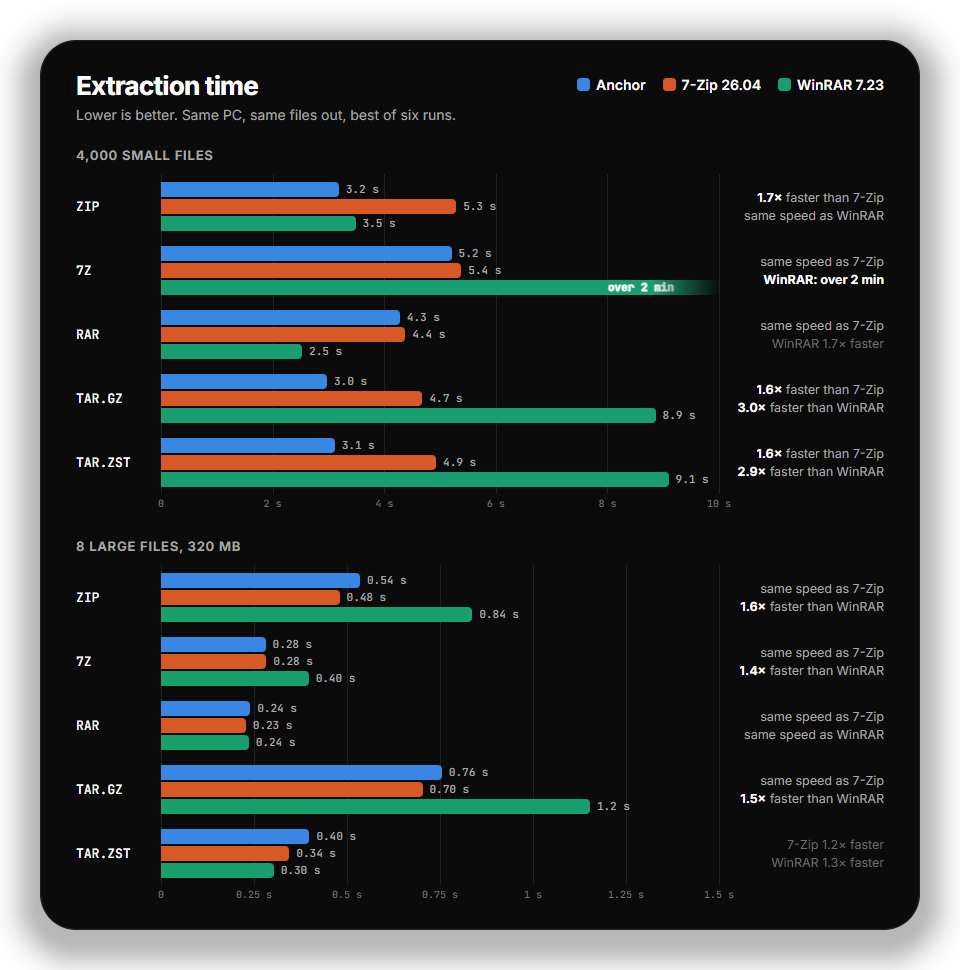
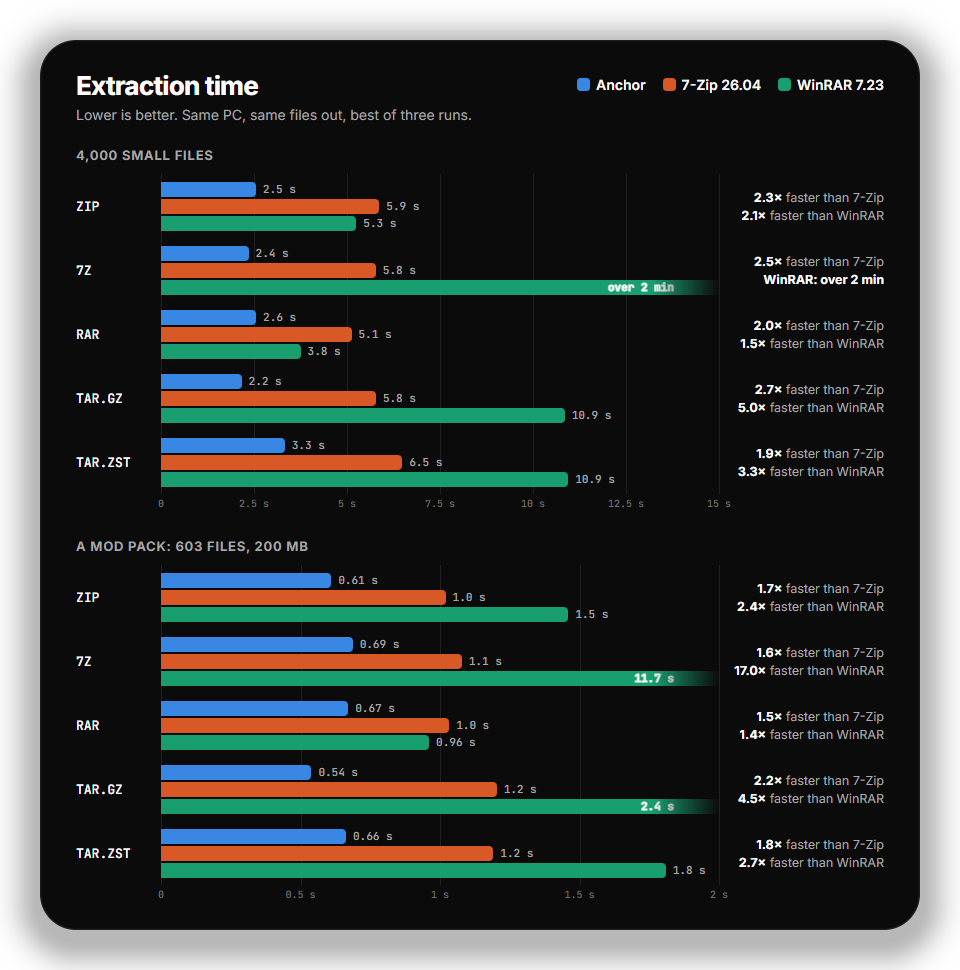
Anchor 0.4.0: fresh benchmark with a mod pack set, open as drive, preview pane and the anchor command

diff --git a/README.md b/README.md
@@ -14,16 +14,16 @@
 
 <picture>
 <source media="(prefers-color-scheme: dark)" srcset="assets/features-dark.png">
-<img src="assets/features-light.png" alt="Open from a link. Repair any ZIP. Size map. Auto compression. Up to 3 times faster. Safe by default." width="100%">
+<img src="assets/features-light.png" alt="Open from a link. Repair any ZIP. Size map. Auto compression. Up to 2.7 times faster. Safe by default." width="100%">
 </picture>
 
 ## Faster than 7-Zip and WinRAR
 
-Anchor extracts on every processor core at once. With many files that makes it up to **1.7× faster than 7-Zip** and up to **3× faster than WinRAR**, and on one 7Z archive WinRAR needed over two minutes where Anchor took five seconds. WinRAR stays quickest on its own RAR format, and with a few large files all three are close.
+Anchor reads the archive as one stream and writes files in parallel. With many files that makes it up to **2.7× faster than 7-Zip** and up to **5× faster than WinRAR**, and on one 7Z archive WinRAR needed over two minutes. With large files every tool waits on decompression, so the gap is small: there Anchor stays within 0.1 s of 7-Zip (the cost of staging files so nothing is left half-written), and WinRAR is quicker on large RAR files.
 
 <picture>
 <source media="(prefers-color-scheme: dark)" srcset="assets/speed-dark.png">
-<img src="assets/speed-light.png" alt="Extraction time for Anchor, 7-Zip 26.04 and WinRAR 7.23. 4,000 small files: ZIP 3.2, 5.3 and 3.5 seconds; 7Z 5.2, 5.4 seconds and over 2 minutes; RAR 4.3, 4.4 and 2.5 seconds; TAR.GZ 3.0, 4.7 and 8.9 seconds; TAR.ZST 3.1, 4.9 and 9.1 seconds. 8 large files: all within a second." width="100%">
+<img src="assets/speed-light.png" alt="Extraction time for Anchor, 7-Zip 26.04 and WinRAR 7.23. 4,000 small files: Anchor 2.2 to 3.3 seconds, 7-Zip 5.1 to 6.5 seconds, WinRAR 3.8 seconds to over 2 minutes. A 200 MB mod pack: Anchor 0.54 to 0.69 seconds, 7-Zip 1.0 to 1.2 seconds, WinRAR 0.96 to 11.7 seconds" width="100%">
 </picture>
 
 <details>
@@ -31,18 +31,28 @@ Anchor extracts on every processor core at once. With many files that makes it u
 
 | Archive | Anchor | 7-Zip 26.04 | WinRAR 7.23 |
 | :-- | --: | --: | --: |
-| 4,000 small files · ZIP | **3.19 s** | 5.29 s | 3.49 s |
-| 4,000 small files · 7Z | **5.21 s** | 5.38 s | over 2 min |
-| 4,000 small files · RAR | 4.28 s | 4.38 s | **2.53 s** |
-| 4,000 small files · TAR.GZ | **2.98 s** | 4.69 s | 8.86 s |
-| 4,000 small files · TAR.ZST | **3.11 s** | 4.93 s | 9.10 s |
-| 8 large files, 320 MB · ZIP | 0.54 s | **0.48 s** | 0.84 s |
-| 8 large files, 320 MB · 7Z | **0.28 s** | **0.28 s** | 0.40 s |
-| 8 large files, 320 MB · RAR | 0.24 s | **0.23 s** | 0.24 s |
-| 8 large files, 320 MB · TAR.GZ | 0.76 s | **0.70 s** | 1.15 s |
-| 8 large files, 320 MB · TAR.ZST | 0.40 s | 0.35 s | **0.30 s** |
+| 4,000 small files · ZIP | **2.55 s** | 5.87 s | 5.25 s |
+| 4,000 small files · 7Z | **2.35 s** | 5.78 s | over 2 min |
+| 4,000 small files · RAR | **2.56 s** | 5.12 s | 3.75 s |
+| 4,000 small files · TAR.GZ | **2.17 s** | 5.78 s | 10.85 s |
+| 4,000 small files · TAR.ZST | **3.33 s** | 6.49 s | 10.95 s |
+| Mod pack: 603 files, 200 MB · ZIP | **0.61 s** | 1.02 s | 1.46 s |
+| Mod pack: 603 files, 200 MB · 7Z | **0.69 s** | 1.08 s | 11.69 s |
+| Mod pack: 603 files, 200 MB · RAR | **0.67 s** | 1.03 s | 0.96 s |
+| Mod pack: 603 files, 200 MB · TAR.GZ | **0.54 s** | 1.20 s | 2.41 s |
+| Mod pack: 603 files, 200 MB · TAR.ZST | **0.66 s** | 1.19 s | 1.81 s |
+| 8 large files, 320 MB · ZIP | **0.33 s** | 0.52 s | 0.88 s |
+| 8 large files, 320 MB · 7Z | 0.40 s | **0.32 s** | 0.83 s |
+| 8 large files, 320 MB · RAR | 0.37 s | 0.28 s | **0.26 s** |
+| 8 large files, 320 MB · TAR.GZ | **0.64 s** | 0.83 s | 1.20 s |
+| 8 large files, 320 MB · TAR.ZST | **0.26 s** | 0.43 s | 0.32 s |
+| 1 large file, 200 MB · ZIP | 0.41 s | **0.35 s** | 0.58 s |
+| 1 large file, 200 MB · 7Z | 0.31 s | **0.24 s** | 0.34 s |
+| 1 large file, 200 MB · RAR | 0.64 s | 0.57 s | **0.33 s** |
+| 1 large file, 200 MB · TAR.GZ | **0.45 s** | 0.55 s | 0.76 s |
+| 1 large file, 200 MB · TAR.ZST | **0.20 s** | 0.30 s | 0.24 s |
 
-Fastest in bold. Measured on one Windows PC with 24 cores: each tool extracted every archive three times in two separate sessions into an empty folder, producing the same files, and the best of the six runs counts. WinRAR was run from its own command line (`WinRAR.exe x`, `UnRAR.exe` for RAR). Runs over two minutes were stopped.
+Fastest in bold. Measured on one Windows PC with 24 cores: each tool extracted every archive three times into an empty folder, producing the same files, and the best time counts. Run `npm run bench` in the source to repeat it.
 
 </details>
 
@@ -50,13 +60,14 @@ Fastest in bold. Measured on one Windows PC with 24 cores: each tool extracted e
 
 | | **Anchor** | 7-Zip | WinRAR |
 | :-- | :--: | :--: | :--: |
-| Extracts many files faster: up to 1.7× vs 7-Zip, 3× vs WinRAR | ✅ | — | — |
+| Extracts many files faster: up to 2.7× vs 7-Zip, 5× vs WinRAR | ✅ | — | — |
 | Opens a ZIP from a link without downloading it all | ✅ | — | — |
 | Repairs damaged ZIPs, even without recovery data | ✅ | — | ✅ |
 | Recovery data for any archive | ✅ | — | RAR only |
 | Size map, with duplicate files found for you | ✅ | — | — |
 | Picks the right compression for your files | ✅ | — | — |
 | Safety check for disguised programs and zip bombs | ✅ | — | — |
+| Opens an archive as a drive in Explorer | ✅ | — | — |
 | Undo an extraction | ✅ | — | — |
 | Free, with no nag screen | ✅ | ✅ | — |
 
@@ -79,6 +90,8 @@ The size map shows an archive by size. Click a folder to go into it. Duplicate f
 - Tabs, folder tree, list and grid views, search by name or by text inside files
 - Preview images, video, audio, PDF and text without extracting
 - Open from a link: paste a ZIP's address (Ctrl+L) and browse it at once
+- Open as drive: an archive shows up as a read-only drive in Explorer, files unpack only when opened
+- Explorer's preview pane (Alt+P) lists what is inside an archive
 
 </details>
 <details>
@@ -88,6 +101,7 @@ The size map shows an archive by size. Click a folder to go into it. Duplicate f
 - Files appear only when everything succeeded, and Undo takes them back
 - Checks free space first, asks before overwriting, keeps Windows' "downloaded from the internet" protection
 - Right-click any archive in Explorer: Extract here, Extract to folder, Open with Anchor
+- The `anchor` command in any terminal: `anchor x`, `l`, `t`, `a` and `repair`
 
 </details>
 <details>
